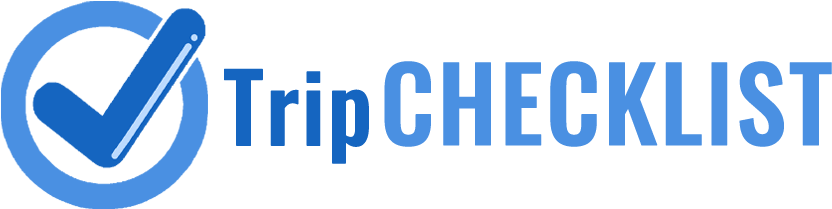
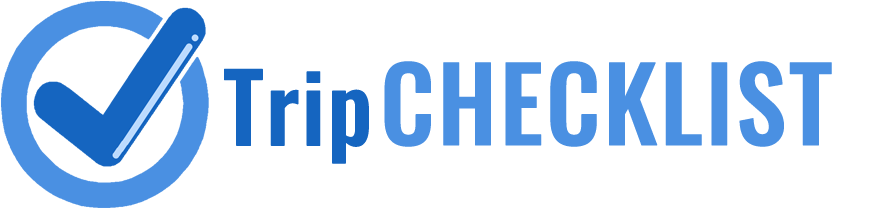
v1.7.3: Modifica loghi

diff --git a/assets/js/utils.js b/assets/js/utils.js
@@ -1,5 +1,5 @@
 
 export const APP_NAME = "Trip Checklist";
-export const APP_VERSION = "1.7.2"
+export const APP_VERSION = "1.7.3"
 export const SUPPORT_EMAIL = "matteosteri+tripchecklist@gmail.com";
 export const PLAY_STORE_URL = "https://play.google.com/store/apps/details?id=com.matteosteri.tripchecklist";
